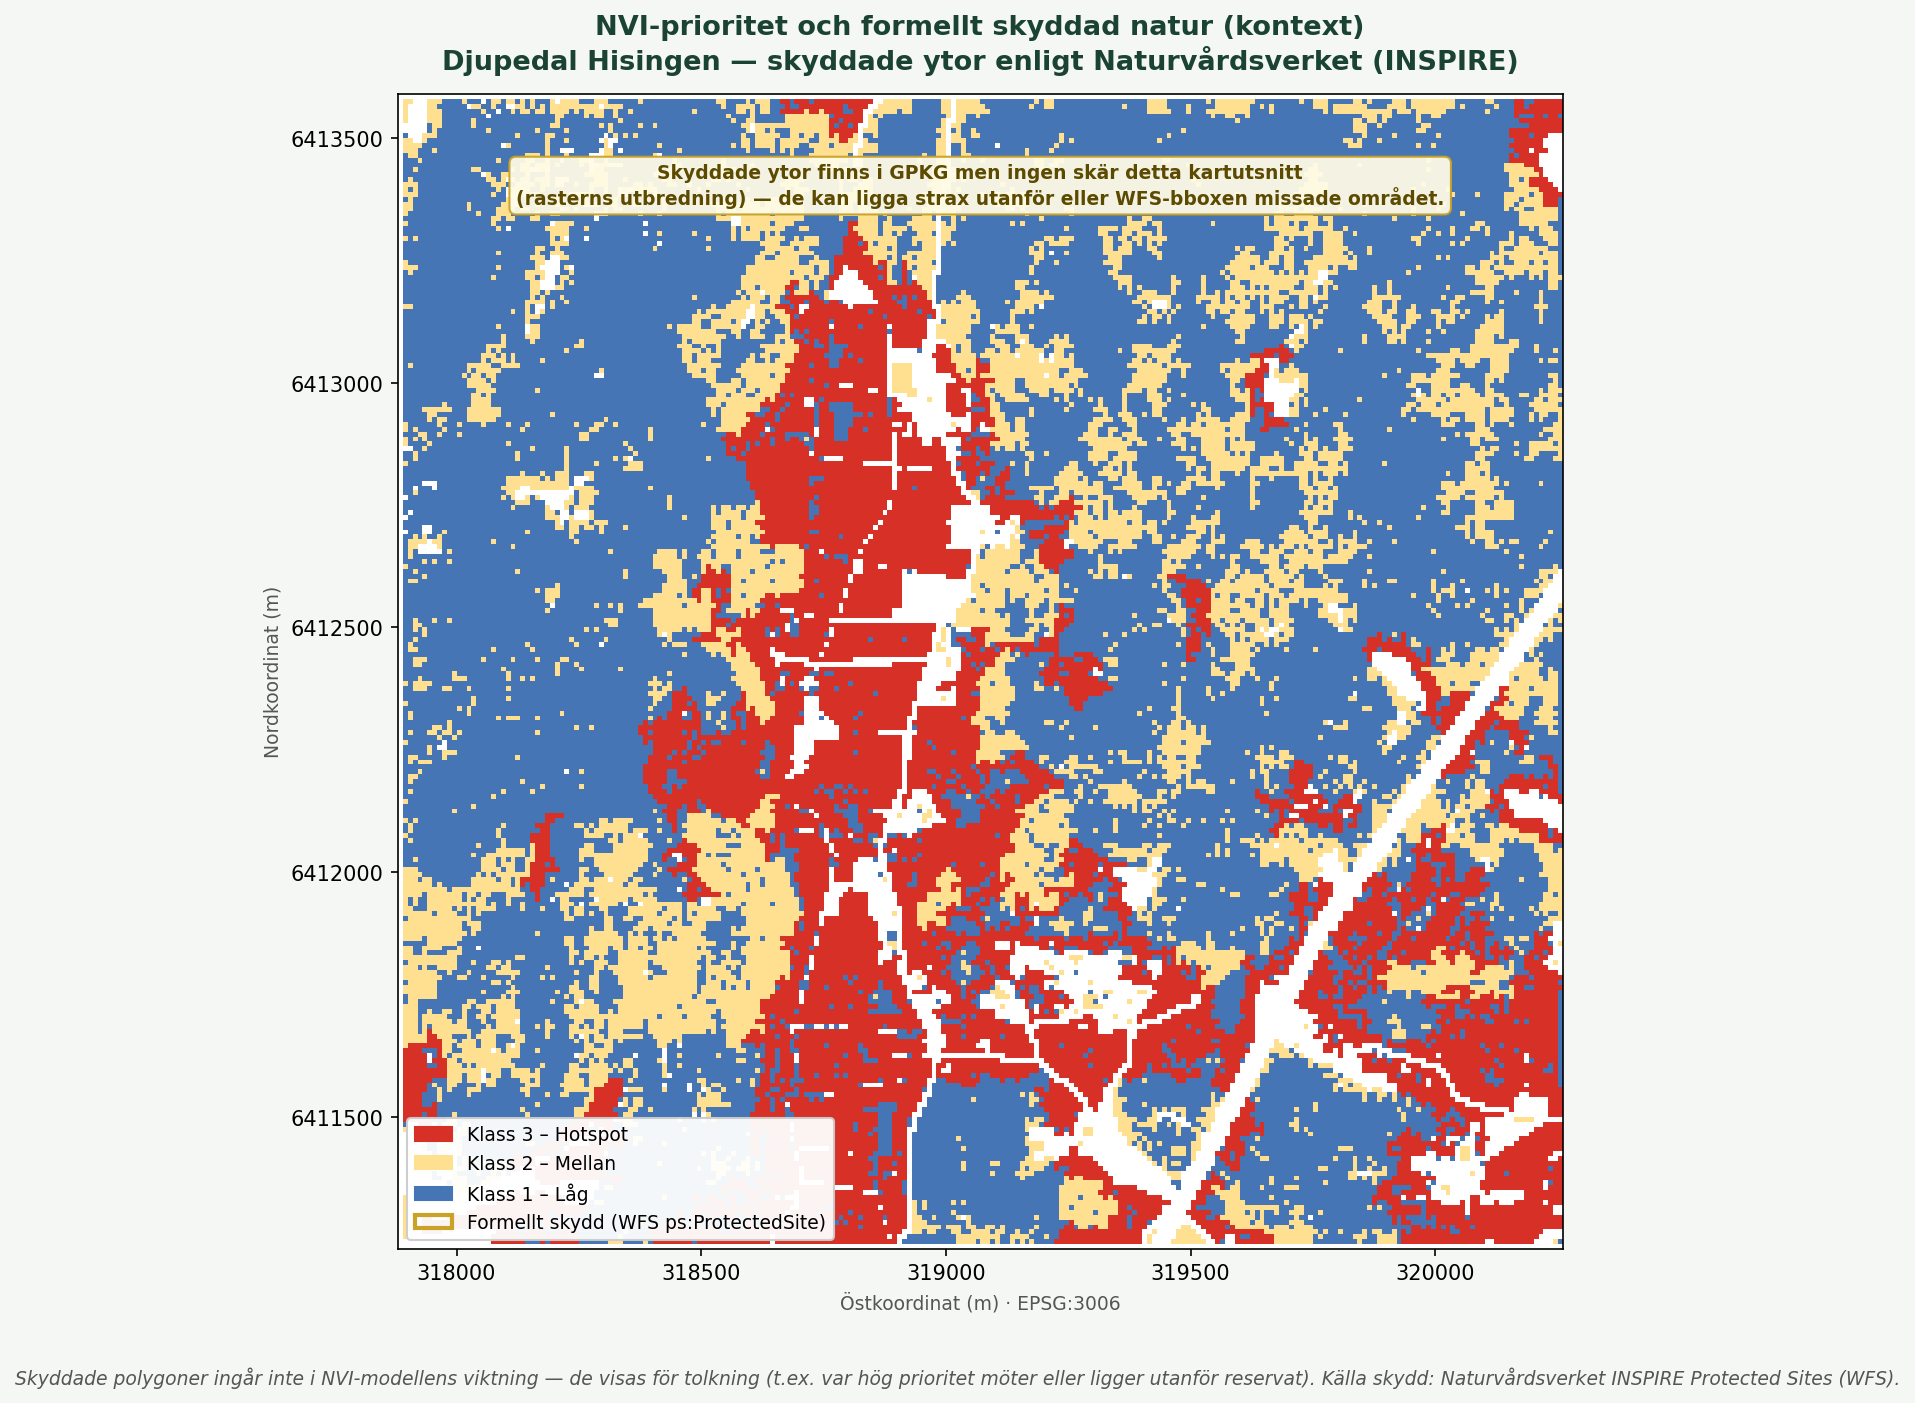
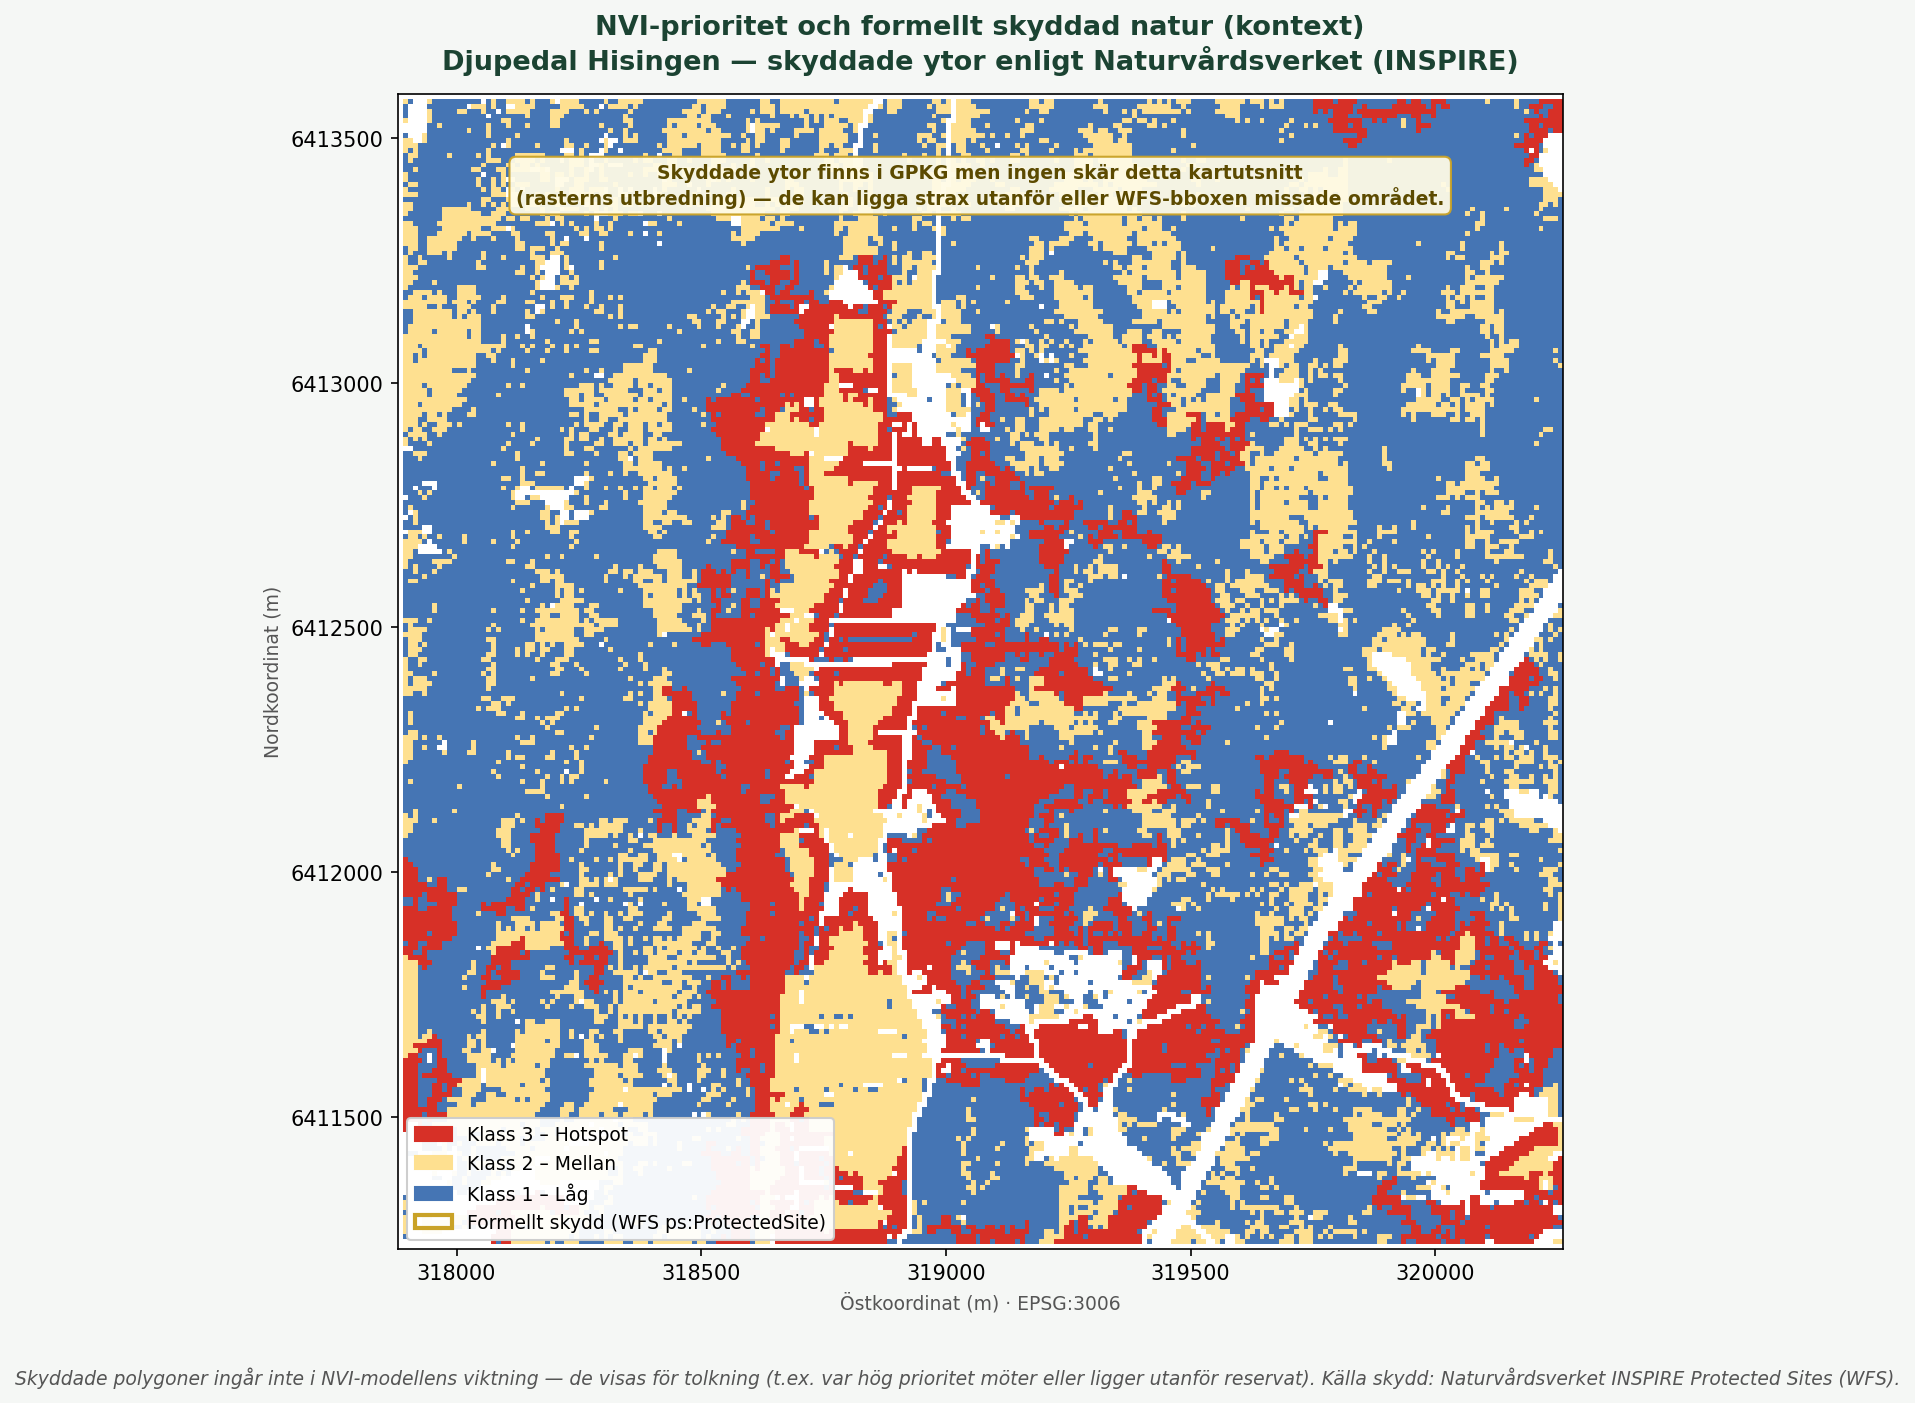
Förbättra modellprecision: granmalus, nyckelbiotop-diff, trösklar
Fas 1 av modellförbättringar baserade på validering mot Länsstyrelsen
Västra Götaland Rapport 2022:42 (Djupedal):

- Granmalus: läs gran-raster INNAN baseline sätts; gran-dominerad skog
  (>60%) får startbas 0.20 istället för 0.50, plus ytterligare -0.10
- Nyckelbiotop-bonus: differentierad per trädslagsandel (gran>60%: +0.10,
  övrig skog: +0.25) för att undvika granplantage-uppvärdering
- Klassificeringstösklar: absolut golv klass2≥0.45, klass3≥0.60 för att
  låg-poäng-ytor inte klassas upp enbart av relativ rank

Resultat: areal-viktad träff 60% → 73% mot referensrapporten.
Klass 3 (påtagligt): 53% → 72% areal. Klass 4 (visst): 32% → 43%.

Changed region(s): [[0.1849, 0.0613, 0.8319, 0.8888], [0.2157, 0.3678, 0.2465, 0.3984]]

diff --git a/scripts/python/compute_indices.py b/scripts/python/compute_indices.py
@@ -197,16 +197,30 @@ def build_structure_index():
         nmd, meta = clip_and_read(NMD_BASSKIKT, crs_is_sweref=True)
         forest_mask = np.isin(nmd.astype(int), NMD_FOREST_CLASSES).astype(float)
         texture     = generic_filter(forest_mask, np.std, size=7)
-        structure   = forest_mask * 0.5 + normalize(texture) * 0.2
 
-        # Trädslag: ädellöv och trivial löv ger bonus; gran ger malus
+        # Läs gran-raster INNAN baseline sätts för differentierad startpunkt.
+        # Gran-dominerad skog (>60 %) startar på 0.20 istället för 0.50.
+        gran = np.zeros(forest_mask.shape)
+        gran_files: list = []
+        if has_tradslag:
+            gran_files = list(NMD_TRADSLAG_DIR.glob("*gran*.tif"))
+            if gran_files:
+                gran_raw, _ = clip_and_read(gran_files[0], crs_is_sweref=True)
+                gran = resample_to(gran_raw.clip(0, 1), forest_mask.shape)
+
+        gran_dom = (gran > 0.6) & (forest_mask > 0)
+        structure = np.where(gran_dom,
+                             forest_mask * 0.20,   # plantage-gran: låg bas
+                             forest_mask * 0.50)   # övrig skog: normal bas
+        structure = structure + normalize(texture) * 0.2
+
+        # Trädslag: ädellöv och trivial löv ger bonus; gran ger ytterligare malus
         # Filer: adel, bok, ekovradel = högt värde  |  trivial = måttligt  |  gran = negativt
         if has_tradslag:
             adel_files = list(NMD_TRADSLAG_DIR.glob("*adel*.tif")) + \
                          list(NMD_TRADSLAG_DIR.glob("*bok*.tif"))  + \
                          list(NMD_TRADSLAG_DIR.glob("*ekovradel*.tif"))
             trivial_files = list(NMD_TRADSLAG_DIR.glob("*trivial*.tif"))
-            gran_files    = list(NMD_TRADSLAG_DIR.glob("*gran*.tif"))
 
             if adel_files:
                 adel, _ = clip_and_read(adel_files[0], crs_is_sweref=True)
@@ -219,9 +233,7 @@ def build_structure_index():
                 structure += trivial * 0.08  # lövbonus (björk, asp etc.)
 
             if gran_files:
-                gran, _ = clip_and_read(gran_files[0], crs_is_sweref=True)
-                gran = resample_to(gran.clip(0, 1), structure.shape)
-                structure -= gran * 0.15   # granmalus: plantageskog ger lägre NVI
+                structure -= gran * 0.10   # ytterligare malus (utöver lägre bas)
 
         # Objekthöjd 5–45 m: proxy för trädhöjd (gammal skog)
         if has_objhojd:
@@ -257,8 +269,10 @@ def build_structure_index():
         if nb_raster.exists():
             nb, _ = clip_and_read(nb_raster, crs_is_sweref=True)
             nb = resample_to((nb > 0).astype(float), structure.shape)
-            structure += nb * 0.25   # stark bonus – nyckelbiotop = klass 1–2 i NVI
-            print("  + Nyckelbiotop-bonus applicerad")
+            # Gran-dominerade nyckelbiotoper får lägre bonus (0.10) än lövdominerade (0.25)
+            nb_bonus = np.where(gran > 0.6, nb * 0.10, nb * 0.25)
+            structure += nb_bonus
+            print("  + Nyckelbiotop-bonus applicerad (trädslagsadekvat)")
 
         # NNK-bonus: Natura 2000-naturtyper (skogsliga) indikerar höga naturvärden
         nnk_files = list(NNK_DIR.glob("nnk_*_skogstyper_aoi.gpkg"))

diff --git a/scripts/python/hotspot_model.py b/scripts/python/hotspot_model.py
@@ -31,17 +31,28 @@ except ImportError:
 # ── Klassificering ────────────────────────────────────────────────────────────
 
 def classify_hotspots(score: np.ndarray) -> tuple[np.ndarray, float, float]:
-    """Percentilbaserad 3-klassklassificering (p33 / p67)."""
+    """Percentilbaserad 3-klassklassificering (p33 / p67) med absolut golv.
+
+    Absolut minimum säkerställer att låg-poäng-ytor (t.ex. granplantager)
+    inte klassas upp enbart av sin relativa rank i fördelningen.
+      MIN_KLASS2 = 0.45 – kräver minst 45 % av maxpoäng för mellanklass
+      MIN_KLASS3 = 0.60 – kräver minst 60 % av maxpoäng för hotspot
+    """
     valid = score[score > 0]
     p33 = float(np.percentile(valid, 33))
     p67 = float(np.percentile(valid, 67))
+
+    MIN_KLASS2 = 0.45
+    MIN_KLASS3 = 0.60
+    p33 = max(p33, MIN_KLASS2)
+    p67 = max(p67, MIN_KLASS3)
 
     cls = np.zeros_like(score, dtype=np.uint8)
     cls[score > 0]    = 1   # Låg prioritet
     cls[score > p33]  = 2   # Mellanklass
     cls[score > p67]  = 3   # Hotspot
 
-    print(f"  Trosklar: p33={p33:.3f}  p67={p67:.3f}")
+    print(f"  Trosklar: p33={p33:.3f}  p67={p67:.3f}  (golv klass2≥{MIN_KLASS2}, klass3≥{MIN_KLASS3})")
     return cls, p33, p67
 
 
